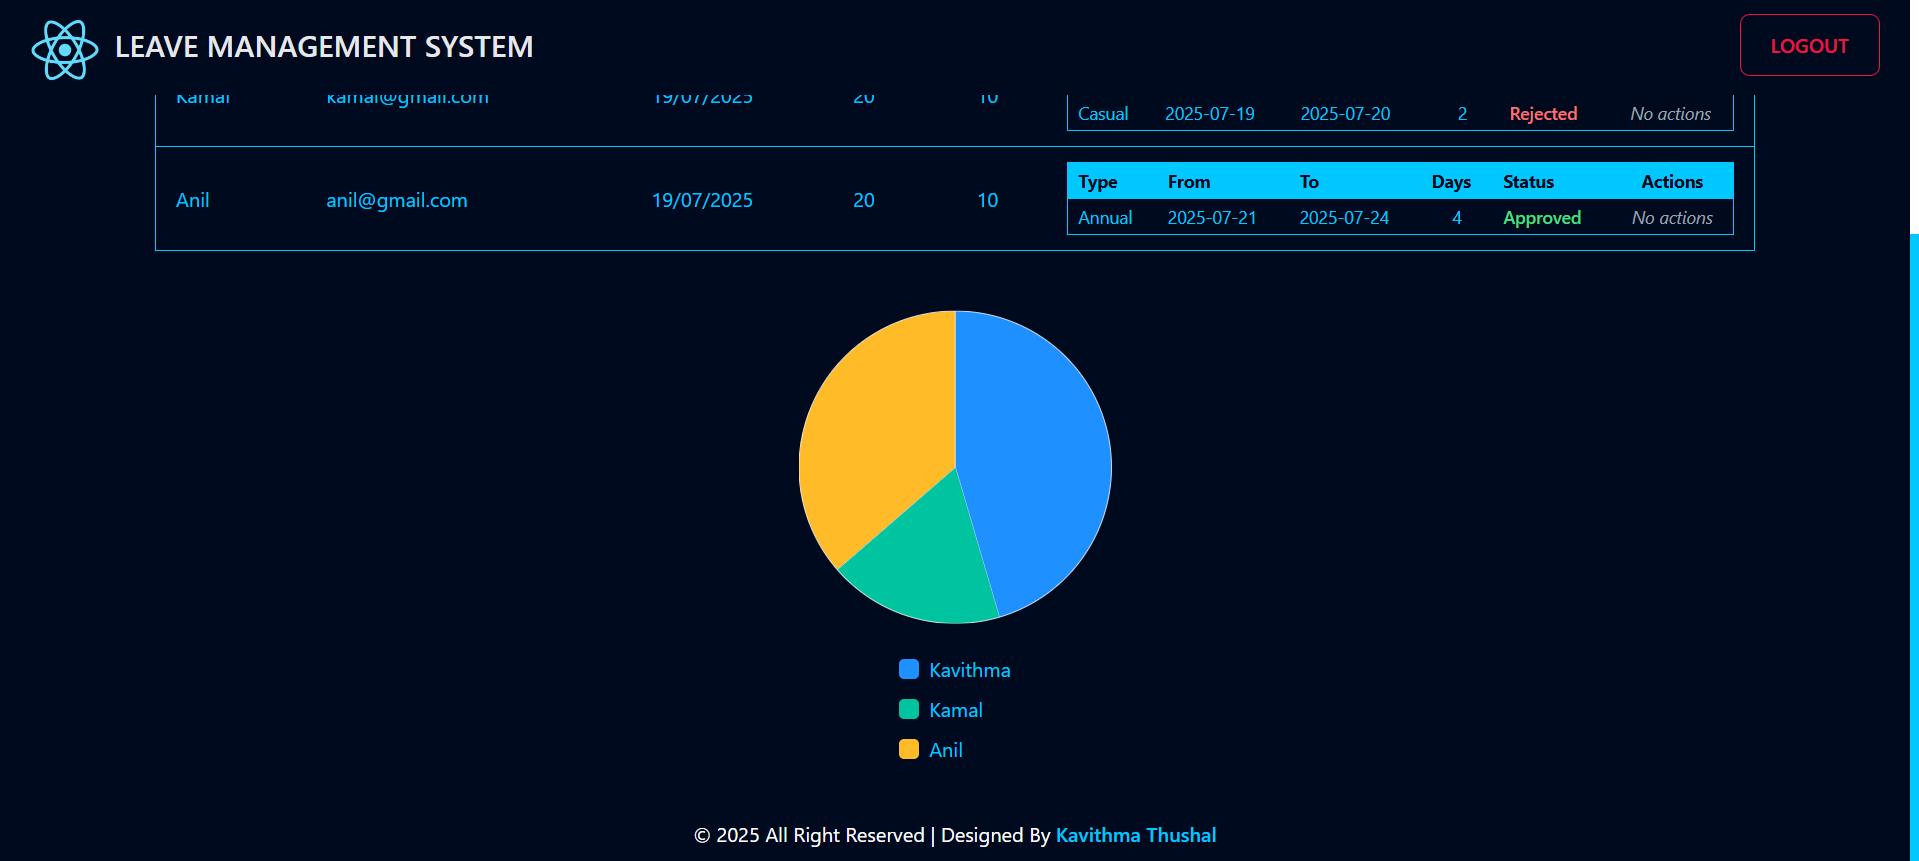
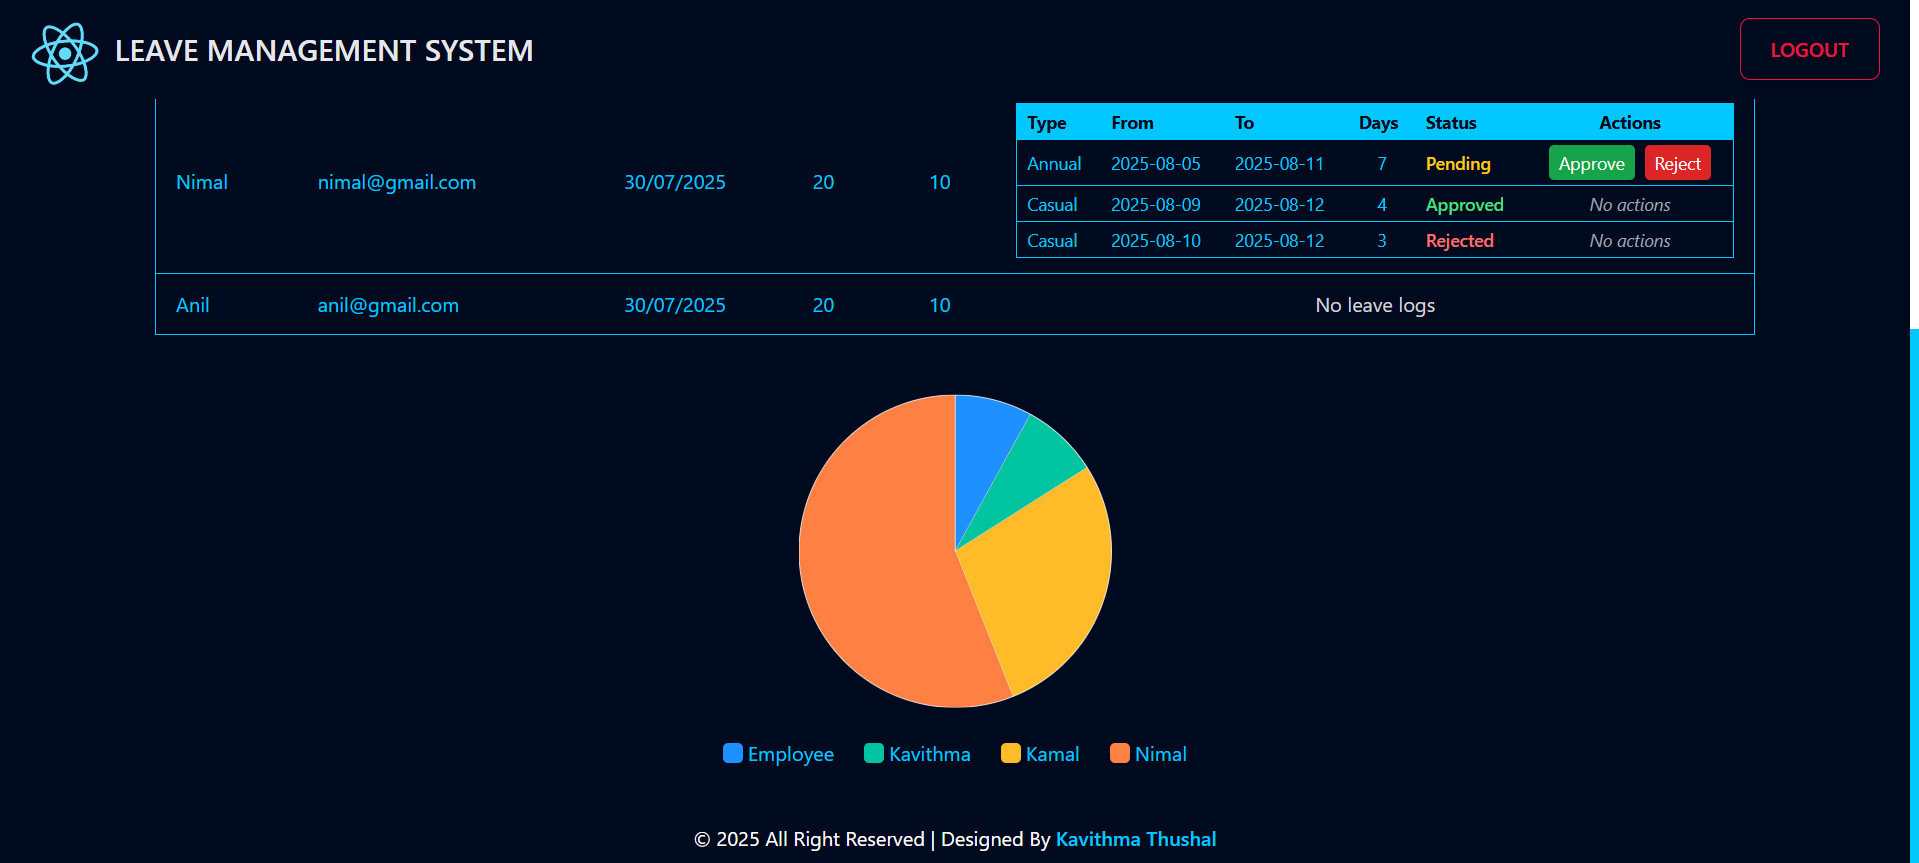
README.md Updated

diff --git a/frontend/src/views/components/Chart/Chart.tsx b/frontend/src/views/components/Chart/Chart.tsx
@@ -60,10 +60,10 @@ export default function Chart({employees}: ChartProps) {
                     <path key={i} d={path.d} fill={path.color} stroke="white" strokeWidth="0.005"/>
                 ))}
             </svg>
-            <div className="mt-6 flex flex-col space-y-2">
+            <div className="mt-6 flex flex-row flex-wrap gap-6 justify-center">
                 {paths.map((p, i) => (
-                    <div key={i} className="flex items-center space-x-2">
-                        <span className="w-4 h-4 inline-block rounded" style={{backgroundColor: p.color}}></span>
+                    <div key={i} className="flex items-center space-x-1">
+                        <span className="w-4 h-4 inline-block rounded" style={{ backgroundColor: p.color }}></span>
                         <span>{p.name}</span>
                     </div>
                 ))}

diff --git a/README.md b/README.md
@@ -63,12 +63,12 @@ experience for both **Employees** and **Admins** through intuitive web interface
 ## 🔄 Seeding Information
 
 ### 👨💼 Admin
-✅ Email: admin@example.com<br/>
-✅ Password: password<br/>
+✅ Email: `admin@example.com`<br/>
+✅ Password: `password`<br/>
 
 ### 👨💻 Employee
-✅ Email: employee1@example.com<br/>
-✅ Password: password<br/>
+✅ Email: `employee1@example.com`<br/>
+✅ Password: `password`<br/>
 
 ## 📸 Screenshots
 
@@ -92,6 +92,14 @@ experience for both **Employees** and **Admins** through intuitive web interface
 
 <img src="ss/Admin-Dashboard.png">
 <img src="ss/Admin-Dashboard-2.png">
+
+### Codes
+
+<img src="ss/Codes.png">
+
+### Schema
+
+<img src="ss/Schema.png">
 
 ## 📬 Get in Touch
 
